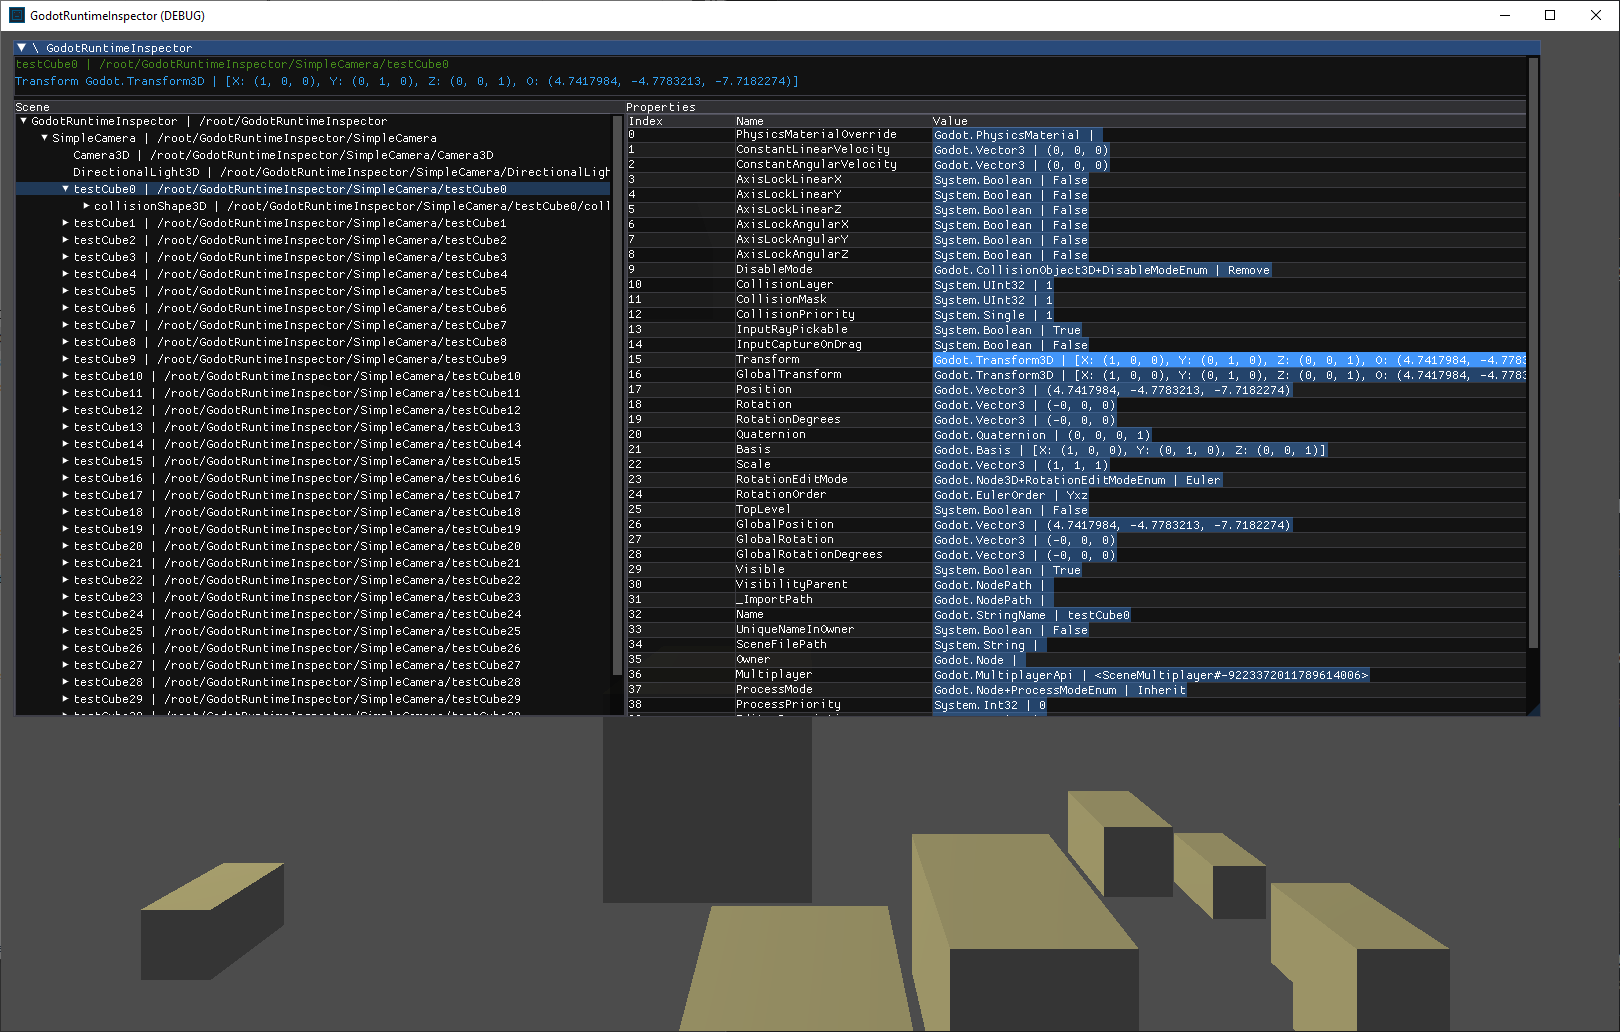
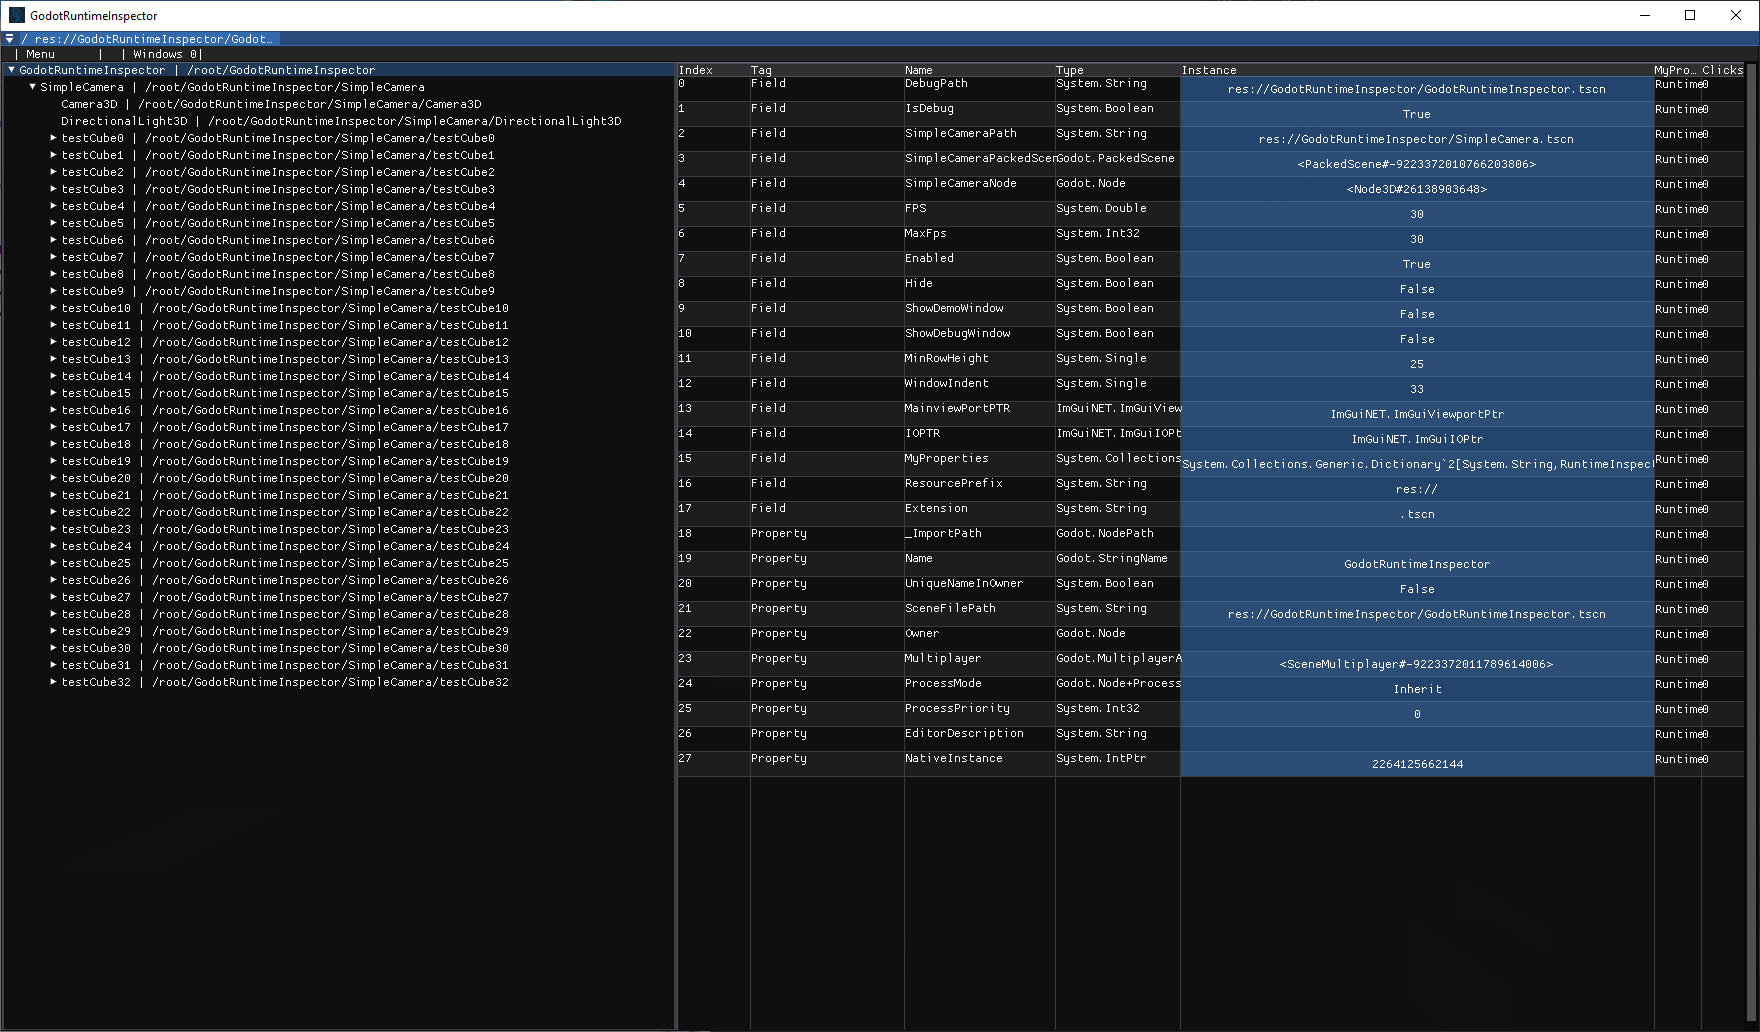
dev

diff --git a/GodotRunTimeInspector/Scripts/Myimgui/MyPropertyTest.cs b/GodotRunTimeInspector/Scripts/Myimgui/MyPropertyTest.cs
@@ -1,7 +1,4 @@
-using ImGuiNET;
-using System.Reflection;
-
-namespace RuntimeInspector.Scripts.Myimgui
+namespace RuntimeInspector.Scripts.Myimgui
 {
     public static class MyPropertyTest
     {
@@ -17,48 +14,55 @@ namespace RuntimeInspector.Scripts.Myimgui
         {
             int rows = 100;
             myProperties = new MyProperty[rows];
-            for (int i = 0; i < myProperties.Length; i++)
-            {
-                MyProperty newProperty = new MyProperty
-                {
-                    Index = i,
-                    Name = Rng().ToString(),
-                    Instance = new object()
-                };
-                myProperties[i] = newProperty;
-            }
-        }
 
-        private static int Rng()
-        {
-            Godot.RandomNumberGenerator random = new Godot.RandomNumberGenerator();
-            random.Randomize();
-            int rng = random.RandiRange(0, 59);
-            return rng;
+            using (System.Security.Cryptography.SHA256 mySHA256 = System.Security.Cryptography.SHA256.Create())
+            {
+                for (int i = 0; i < myProperties.Length; i++)
+                {
+                    ulong hashInput = Godot.Time.GetTicksMsec();
+                    hashInput += (ulong)i;
+                    byte[] hashBytes = System.BitConverter.GetBytes(hashInput);
+                    if (System.BitConverter.IsLittleEndian)
+                    {
+                        System.Array.Reverse(hashBytes);
+                    }
+                    byte[] hashValue = mySHA256.ComputeHash(hashBytes);
+                    MyProperty newProperty = new MyProperty
+                    {
+                        Index = i,
+                        Name = Utility.SHA256String(hashValue),
+                        Instance = new object()
+                    };
+                    myProperties[i] = newProperty;
+                }
+            }
         }
 
         public static void Update()
         {
-            if (ImGui.Begin(MethodBase.GetCurrentMethod()?.DeclaringType?.Name, MyPropertyFlags.WindowFlags()))
+            if (!ImGuiNET.ImGui.Begin(System.Reflection.MethodBase.GetCurrentMethod()?.DeclaringType?.Name, MyPropertyFlags.WindowFlags()))
             {
-                System.Numerics.Vector2 windowSize = ImGui.GetWindowSize();
-                if (ImGui.SmallButton(nameof(Init)))
-                {
-                    Init();
-                }
-
-
-                string tableID = MethodBase.GetCurrentMethod()?.DeclaringType?.Name + "TABLE";
-                string name = nameof(name);
-                bool border = true;
-                System.Numerics.Vector2 tableSize = new System.Numerics.Vector2(windowSize.X, windowSize.Y - GodotRuntimeInspector.MinRowHeight);
-                if (ImGui.BeginChild(name, tableSize, border, MyPropertyFlags.TreeNodeWindowFlags()))
-                {
-                    myPropertyTable.DrawTable(ref myProperties, tableID, MyPropertyFlags.TableFlags(), windowSize);
-                    ImGui.EndChild();
-                }
-                ImGui.End();
+                ImGuiNET.ImGui.End();
+                return;
             }
+            System.Numerics.Vector2 windowSize = ImGuiNET.ImGui.GetWindowSize();
+
+            if (ImGuiNET.ImGui.SmallButton(nameof(Init)))
+            {
+                Init();
+            }
+
+            string tableID = System.Reflection.MethodBase.GetCurrentMethod()?.DeclaringType?.Name + "TABLE";
+            string name = nameof(name);
+            bool border = true;
+            System.Numerics.Vector2 childSize = new System.Numerics.Vector2(windowSize.X - GodotRuntimeInspector.MinRowHeight, windowSize.Y - GodotRuntimeInspector.MinRowHeight);
+            if (ImGuiNET.ImGui.BeginChild(name, childSize, border, MyPropertyFlags.TreeNodeWindowFlags()))
+            {
+                System.Numerics.Vector2 tableSize = new System.Numerics.Vector2(childSize.X - GodotRuntimeInspector.MinRowHeight, childSize.Y - GodotRuntimeInspector.MinRowHeight);
+                myPropertyTable.DrawTable(ref myProperties, tableID, MyPropertyFlags.TableFlags(), tableSize);
+                ImGuiNET.ImGui.EndChild();
+            }
+            ImGuiNET.ImGui.End();
         }
     }
 }

diff --git a/GodotRunTimeInspector/Scripts/GodotRuntimeInspector.cs b/GodotRunTimeInspector/Scripts/GodotRuntimeInspector.cs
@@ -6,7 +6,6 @@ namespace RuntimeInspector.Scripts
 {
     public partial class GodotRuntimeInspector : Godot.Node
     {
-        public static int TotalClicks = 0;
         public const string ResourcePrefix = "res://";
         public const string Extension = ".tscn";
         public static string DebugPath = ResourcePrefix + nameof(GodotRuntimeInspector) + "/" + nameof(GodotRuntimeInspector) + Extension;
@@ -19,6 +18,7 @@ namespace RuntimeInspector.Scripts
         public static bool Enabled = true;
         public static bool Hide = false;
         public static bool ShowDemoWindow = false;
+        public static bool ShowDebugWindow = false;
         public static float MinRowHeight = 25f;
         public static float WindowIndent = 33f;
         public static ImGuiViewportPtr MainviewPortPTR = new ImGuiViewportPtr();
@@ -92,25 +92,22 @@ namespace RuntimeInspector.Scripts
             ImGui.SetNextWindowPos(windowPos, ImGuiCond.Appearing);
             Myimgui.MyPropertyNode.Update(this);
 
-            windowPos = new System.Numerics.Vector2(0f, MainviewPortPTR.Size.Y / 2f);
-            ImGui.SetNextWindowSize(windowSize, ImGuiCond.Appearing);
-            ImGui.SetNextWindowPos(windowPos, ImGuiCond.Appearing);
-            Myimgui.MyPropertyTest.Update();
+            if (ShowDebugWindow == true)
+            {
+                windowPos = new System.Numerics.Vector2(0f, MainviewPortPTR.Size.Y / 2f);
+                ImGui.SetNextWindowSize(windowSize, ImGuiCond.Appearing);
+                ImGui.SetNextWindowPos(windowPos, ImGuiCond.Appearing);
+                Myimgui.MyPropertyTest.Update();
+            }
 
             windowPos = new System.Numerics.Vector2(windowSize.X, 0f);
             string[] keys = MyProperties.Keys.ToArray();
             for (int i = 0; i < keys.Length; i++)
             {
-                Myimgui.MyProperty myProperty = MyProperties[keys[i]];
-                ImGuiCond imGuiCond = ImGuiCond.Appearing;
-                TotalClicks += myProperty.Clicks;
-                if (myProperty.Clicks > 0)
-                {
-                    imGuiCond = ImGuiCond.Always;
-                }
-                ImGui.SetNextWindowSize(windowSize, imGuiCond);
-                ImGui.SetNextWindowPos(windowPos, imGuiCond);
-
+                string key = keys[i];
+                Myimgui.MyProperty myProperty = MyProperties[key];
+                ImGui.SetNextWindowSize(windowSize, ImGuiCond.Appearing);
+                ImGui.SetNextWindowPos(windowPos, ImGuiCond.Appearing);
                 myProperty.MyPropertyImgui.Update(myProperty);
             }
 

diff --git a/GodotRunTimeInspector/Scripts/Myimgui/MenuBar.cs b/GodotRunTimeInspector/Scripts/Myimgui/MenuBar.cs
@@ -9,20 +9,20 @@ namespace RuntimeInspector.Scripts.Myimgui
         {
             if (ImGui.BeginMenuBar())
             {
-                if (ImGui.BeginMenu("[Menu \t]"))
+                if (ImGui.BeginMenu("| Menu \t |"))
                 {
                     string txtEnabled = nameof(GodotRuntimeInspector.Enabled) + "\t(" + MyInputMap.F1 + ")";
                     bool enabled = ImGui.Checkbox(txtEnabled, ref GodotRuntimeInspector.Enabled);
                     bool showDemoWindow = ImGui.Checkbox(nameof(GodotRuntimeInspector.ShowDemoWindow), ref GodotRuntimeInspector.ShowDemoWindow);
+                    bool debugEnabled = ImGui.Checkbox(nameof(GodotRuntimeInspector.ShowDebugWindow), ref GodotRuntimeInspector.ShowDebugWindow);
                     ImGui.EndMenu();
                 }
 
-                if (ImGui.BeginMenu("[MyProperties " + GodotRuntimeInspector.MyProperties.Count + "]"))
+                if (ImGui.BeginMenu("| Windows " + GodotRuntimeInspector.MyProperties.Count + "|"))
                 {
                     if (ImGui.MenuItem("Close All"))
                     {
                         GodotRuntimeInspector.MyProperties.Clear();
-                        GodotRuntimeInspector.TotalClicks = 0;
                     }
                     string[] keys = GodotRuntimeInspector.MyProperties.Keys.ToArray();
                     for (int i = 0; i < keys.Length; i++)

diff --git a/GodotRunTimeInspector/Scripts/Myimgui/MyPropertyTable.cs b/GodotRunTimeInspector/Scripts/Myimgui/MyPropertyTable.cs
@@ -5,9 +5,17 @@ namespace RuntimeInspector.Scripts.Myimgui
 {
     public class MyPropertyTable
     {
-        private void Sort(ImGuiTableSortSpecsPtr sortsSpecs, MyProperty[] myPropertyInfo)
+        private unsafe void Sort(ImGuiTableSortSpecsPtr sortsSpecs, MyProperty[] myPropertyInfo)
         {
             if (myPropertyInfo.Length == 0 || myPropertyInfo.Length < 2)
+            {
+                return;
+            }
+            if (sortsSpecs.NativePtr == null)
+            {
+                return;
+            }
+            if (sortsSpecs.SpecsCount == 0)
             {
                 return;
             }
@@ -141,8 +149,7 @@ namespace RuntimeInspector.Scripts.Myimgui
                         bool clicked = ImGui.Button(Utility.GetStr(myProperty.Instance) + "###" + myProperty.Name, size);
                         if (clicked)
                         {
-                            myProperty.Clicks += 1;
-                            myProperties[i] = myProperty;
+                            myProperty.Clicks++;
                             if (GodotRuntimeInspector.MyProperties.ContainsKey(myProperty.Name) == false)
                             {
                                 GodotRuntimeInspector.MyProperties.Add(myProperty.Name, myProperty);

diff --git a/GodotRunTimeInspector/Scripts/Myimgui/MyPropertyFlags.cs b/GodotRunTimeInspector/Scripts/Myimgui/MyPropertyFlags.cs
@@ -282,7 +282,6 @@ namespace RuntimeInspector.Scripts.Myimgui
         {
             ImGuiTableColumnFlags tableColumnFlags = new ImGuiTableColumnFlags();
             tableColumnFlags |= ImGuiTableColumnFlags.NoReorder;
-            tableColumnFlags |= ImGuiTableColumnFlags.NoSort;
             tableColumnFlags |= ImGuiTableColumnFlags.IsVisible;
             tableColumnFlags |= ImGuiTableColumnFlags.WidthStretch;
             tableColumnFlags |= ImGuiTableColumnFlags.NoClip;

diff --git a/GodotRunTimeInspector/Scripts/Myimgui/Utility.cs b/GodotRunTimeInspector/Scripts/Myimgui/Utility.cs
@@ -60,5 +60,15 @@ namespace RuntimeInspector.Scripts.Myimgui
                 return false;
             }
         }
+
+        public static string SHA256String(byte[] buffer)
+        {
+            System.Text.StringBuilder stringBuilder = new System.Text.StringBuilder();
+            foreach (byte b in buffer)
+            {
+                stringBuilder.Append(b.ToString("x2"));
+            }
+            return stringBuilder.ToString();
+        }
     }
 }

diff --git a/GodotRunTimeInspector/Scripts/Myimgui/MyPropertyImgui.cs b/GodotRunTimeInspector/Scripts/Myimgui/MyPropertyImgui.cs
@@ -9,6 +9,12 @@ namespace RuntimeInspector.Scripts.Myimgui
 
         public void Update(MyProperty myProperty)
         {
+            if (myProperty.Clicks > 0)
+            {
+                ImGui.SetNextWindowFocus();
+                myProperty.Clicks = 0;
+            }
+
             if (!ImGui.Begin(myProperty.Name, MyPropertyFlags.WindowFlags()))
             {
                 ImGui.End();

diff --git a/GodotRunTimeInspector/Scripts/Myimgui/MyPropertyComparer.cs b/GodotRunTimeInspector/Scripts/Myimgui/MyPropertyComparer.cs
@@ -10,7 +10,7 @@ namespace RuntimeInspector.Scripts.Myimgui
         //     Greater than zero – This instance is greater than value.
         public override int Compare(MyProperty? x, MyProperty? y)
         {
-            throw new NotImplementedException();
+            return 0;
         }
 
         //Index

diff --git a/GodotRunTimeInspector/Scripts/Myimgui/MyPropertyNode.cs b/GodotRunTimeInspector/Scripts/Myimgui/MyPropertyNode.cs
@@ -105,7 +105,7 @@ namespace RuntimeInspector.Scripts.Myimgui
                 }
                 ImGui.EndTable();
             }
-
+            ImGui.End();
         }
 
         private static void Traverse(Godot.Node node)

diff --git a/README.md b/README.md
@@ -1,7 +1,7 @@
 # GodotRuntimeInspector
 
 <p>
-A runtime inspector for the godot game engine.
+View Fields and Properties for scripts attached to Nodes in the godot game engine.
 </p>
 
 <p>
